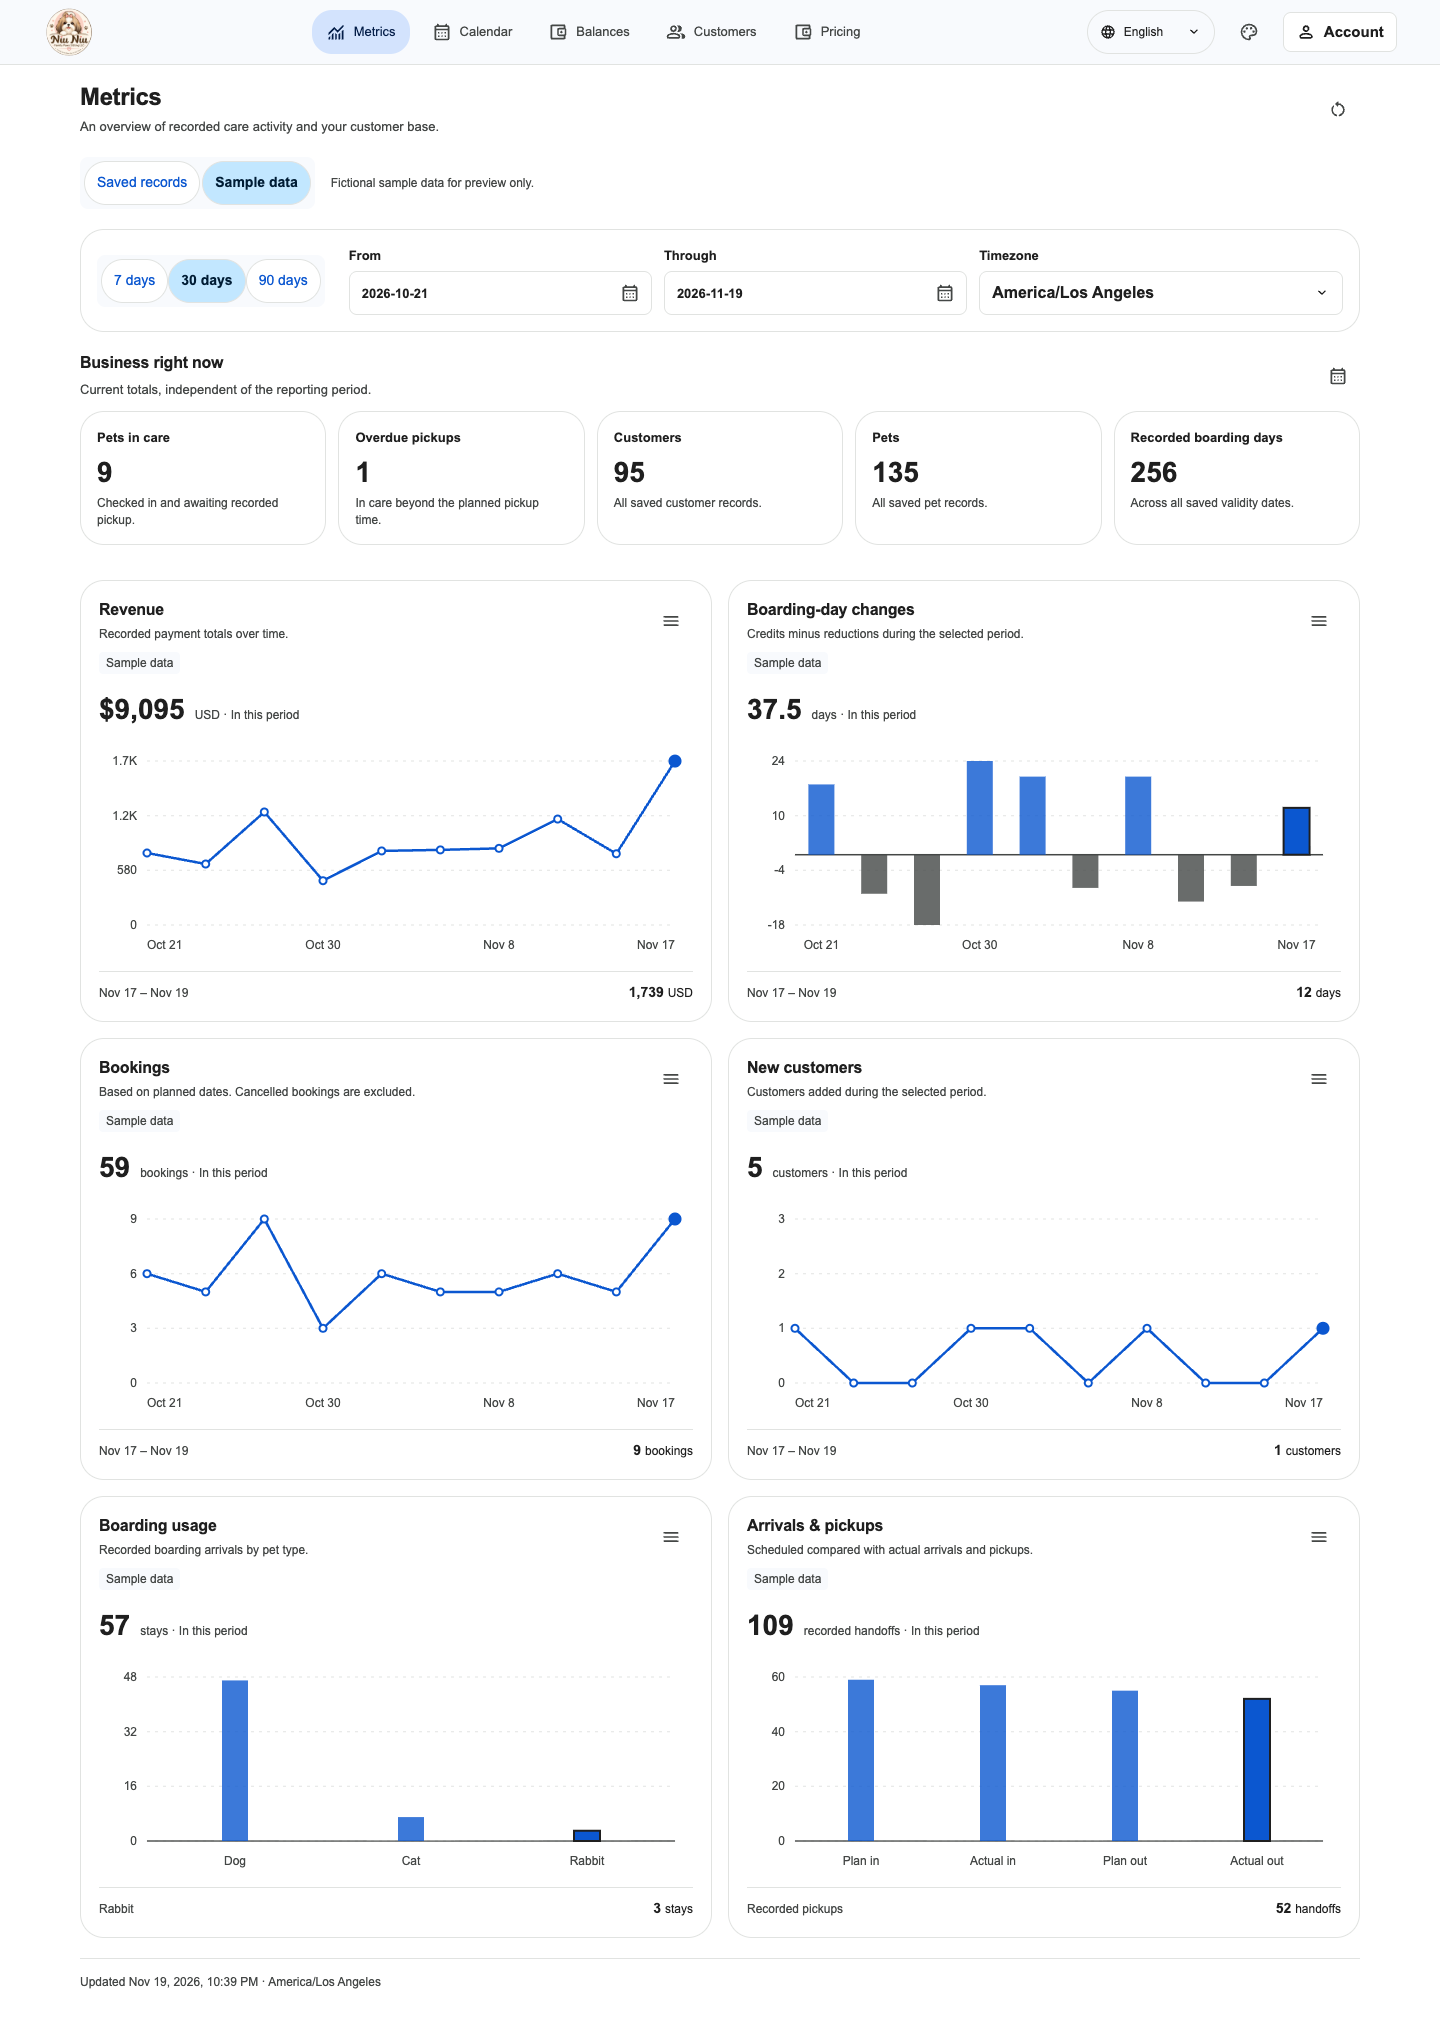
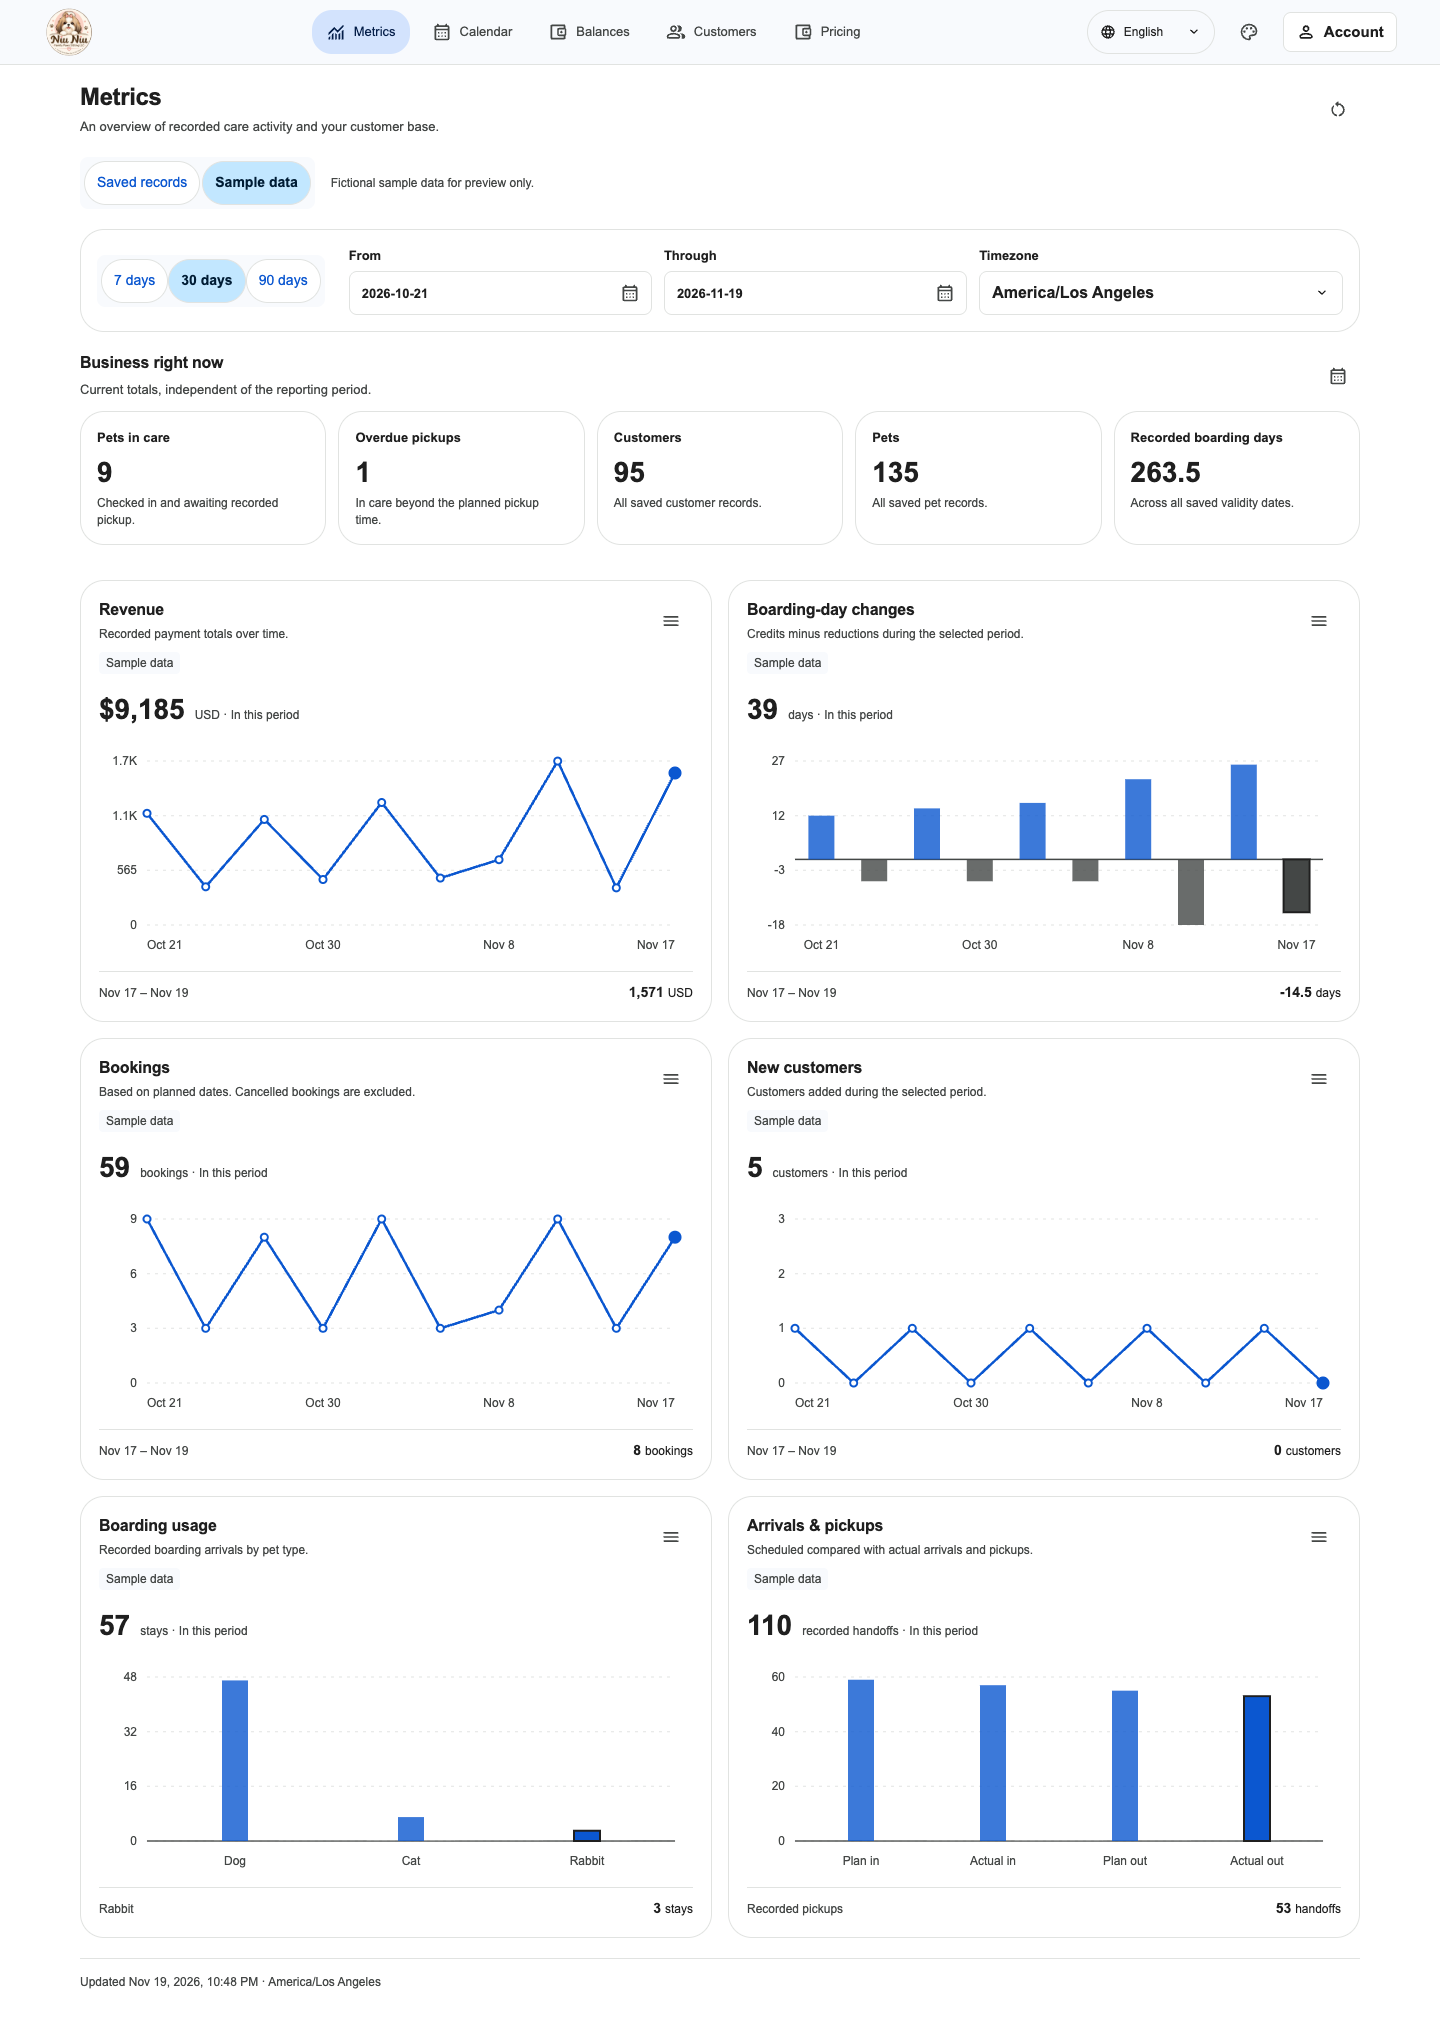
Keep sample metrics consistent across reporting timezones

diff --git a/apps/web/src/metrics-sample.ts b/apps/web/src/metrics-sample.ts
@@ -1,6 +1,6 @@
 import type { components } from '../../../packages/contracts/generated';
 import { metricIntervals } from '../../../packages/metrics/intervals.ts';
-import { shiftDay, zonedValue } from './wall-time.ts';
+import { shiftDay } from './wall-time.ts';
 type Metrics = components['schemas']['BusinessMetrics'];
 export type DashboardMetrics = Omit<Metrics, 'series' | 'revenueAvailable'> & {
   revenueAvailable: boolean;
@@ -14,7 +14,8 @@ export function sampleMetrics(
   zone: string,
   now = Date.now(),
 ): DashboardMetrics {
-  const today = zonedValue(new Date(now).toISOString(), zone).slice(0, 10);
+  // Fixed UTC event dates keep the underlying example records independent of reporting zone.
+  const today = new Date(now).toISOString().slice(0, 10);
   const daily = (day: string) => {
     const seed = [...day].reduce((n, char) => (n * 31 + char.charCodeAt(0)) >>> 0, 17);
     const bookings = seed % 5;
@@ -39,11 +40,10 @@ export function sampleMetrics(
   const usage = { dog: 0, cat: 0, rabbit: 0 };
   const series = metricIntervals(from, through, zone).map((range) => {
     const point = { ...range, bookings: 0, newCustomers: 0, balanceChange: 0, revenueCents: 0 };
-    const last = zonedValue(new Date(Date.parse(range.through) - 1).toISOString(), zone).slice(
-      0,
-      10,
-    );
-    for (let day = zonedValue(range.from, zone).slice(0, 10); day <= last; day = shiftDay(day, 1)) {
+    const last = new Date(Date.parse(range.through) - 1).toISOString().slice(0, 10);
+    for (let day = range.from.slice(0, 10); day <= last; day = shiftDay(day, 1)) {
+      const at = day + 'T00:00:00.000Z';
+      if (at < range.from || at >= range.through) continue;
       const value = daily(day);
       point.bookings += value.bookings;
       point.newCustomers += value.newCustomers;

diff --git a/docs/session-handoff.md b/docs/session-handoff.md
@@ -2,7 +2,7 @@
 
 Owner requests a cleaner, consistent dashboard with realistic values. One dashboard grid now places five current snapshot cards above six equally sized chart cards (revenue, net boarding-day changes, bookings, new customers, boarding usage and scheduled/actual handoffs). Every chart has a period total, consistent heading/plot/caption alignment, readable responsive SVG text and keyboard/data-table access. Bar positions no longer overlap axis labels; count axes use whole numbers. Removed duplicate revenue notices and the oversized full-width service panel. Theme-aware selected controls use paired readable foreground/background roles.
 
-The intentionally fictional local demo (`FAMILY_PAWS_LOCAL_DEMO=true`, test mode, dev server) defaults to **Sample data**. A persistent label and per-chart sample labels distinguish it from saved records. Deterministic daily values produce coherent revenue, days, arrivals/pickups and species totals across changed date ranges; future periods have scheduled bookings but no recorded receipts/handoffs. These are presentation examples, not business rates or payments. Sample mode makes no Metrics API reads or business writes. **Saved records** (`data=saved`) restores genuine aggregates and leaves unrecorded revenue unavailable. Regular test emulators default to saved records; sample data can be selected with `data=sample`. Production cannot activate the preview, even with that URL parameter. No default-database reset or financial activation.
+The intentionally fictional local demo (`FAMILY_PAWS_LOCAL_DEMO=true`, test mode, dev server) defaults to **Sample data**. A persistent label and per-chart sample labels distinguish it from saved records. Deterministic UTC-dated example events produce coherent revenue, days, arrivals/pickups and species totals across changed ranges and timezone buckets; current snapshots remain independent of reporting timezone; future periods have scheduled bookings but no recorded receipts/handoffs. These are presentation examples, not business rates or payments. Sample mode makes no Metrics API reads or business writes. **Saved records** (`data=saved`) restores genuine aggregates and leaves unrecorded revenue unavailable. Regular test emulators default to saved records; sample data can be selected with `data=sample`. Production cannot activate the preview, even with that URL parameter. No default-database reset or financial activation.
 
 Local validation: 81 unit tests, production build, API/format checks and a complete 70-journey Chrome run pass. The final compact-preset/table-label follow-up passes all six dashboard journeys, including 320px English/Chinese, all four themes, contrast, exact category headings, equal card widths, source isolation and switching back to genuine records. Together these runs cover the 72 current journeys; the final PR must pass its complete CI run before merge. Actual populated localhost walkthroughs cover English desktop and Chinese phone, including the local default samples, 320px overflow checks and saved-record restoration. Screenshots: docs/review/dashboard-cleanup-2026-11-19. Previous workspace delivery PRs #166/#167/#168 are merged; final prior CI passed 79 units, 17 integrations and 66 Chrome journeys at verified dd9c8c1. Deployment remains deferred. Booking/cancellation financial automation remains unfinished under the decisions below.
 

diff --git a/docs/e2e-test-plan.md b/docs/e2e-test-plan.md
@@ -536,4 +536,4 @@ Final integrated local validation passes **all 66 backend Chrome journeys in one
 
 ## Dashboard consistency and presentation samples — 2026-11-19
 
-81 units, build/API/format checks and a stable 70-journey local Chrome run pass. After compact date presets and category table headings, all six final dashboard journeys pass (four themes, English/Chinese, 320px/390px/1440px). These check coherent sample totals, visible source/selection states, no Metrics API reads or business writes in samples, exact category headings, saved-record restoration, revenue remaining unavailable for genuine records, readable contrast and equal card widths. Sample unit tests verify additive totals, stable snapshots and no recorded future receipts/handoffs. The combined current suite has 72 journeys; final PR CI must run all of them before merge. Read-only populated localhost walkthroughs verify default demo samples and switching to actual records on desktop and phones, including 320px. Screenshots: docs/review/dashboard-cleanup-2026-11-19. No default-database resets, financial activation or deployment.
+81 units, build/API/format checks and a stable 70-journey local Chrome run pass. After compact date presets and category table headings, all six final dashboard journeys pass (four themes, English/Chinese, 320px/390px/1440px). These check coherent sample totals, visible source/selection states, no Metrics API reads or business writes in samples, exact category headings, saved-record restoration, revenue remaining unavailable for genuine records, readable contrast and equal card widths. Sample unit tests verify additive totals, stable snapshots, no added/lost events across reporting zones and no recorded future receipts/handoffs. The combined current suite has 72 journeys; final PR CI must run all of them before merge. Read-only populated localhost walkthroughs verify default demo samples and switching to actual records on desktop and phones, including 320px. Screenshots: docs/review/dashboard-cleanup-2026-11-19. No default-database resets, financial activation or deployment.

diff --git a/docs/architecture.md b/docs/architecture.md
@@ -155,4 +155,4 @@ MetricsQuery accepts an optional IANA timeZone. Shared pure packages/time helper
 
 ## Isolated dashboard presentation samples — 2026-11-19
 
-Metrics uses one responsive card/plot system for six aggregate views. A frontend-only DashboardMetrics projection permits monetary values solely for explicitly labeled fictional samples; the API contract, recorded aggregates and unavailable-payment behavior are unchanged. Sample generation is deterministic per local calendar date and uses shared timezone intervals. Species counts reconcile to actual arrivals, scheduled/actual counts remain distinct, and future records are not fabricated. Sampling has no storage/write path. A test-mode development guard controls availability, and only the explicitly enabled local demo defaults to sample mode. URL data=saved overrides that default. Production builds cannot select samples. Authenticated administrator routing remains unchanged.
+Metrics uses one responsive card/plot system for six aggregate views. A frontend-only DashboardMetrics projection permits monetary values solely for explicitly labeled fictional samples; the API contract, recorded aggregates and unavailable-payment behavior are unchanged. Sample generation uses fixed UTC-dated example events and shared timezone intervals. Changing the reporting zone only regroups events: current snapshots and totals over the same UTC window remain unchanged. Species counts reconcile to actual arrivals, scheduled/actual counts remain distinct, and future records are not fabricated. Sampling has no storage/write path. A test-mode development guard controls availability, and only the explicitly enabled local demo defaults to sample mode. URL data=saved overrides that default. Production builds cannot select samples. Authenticated administrator routing remains unchanged.
